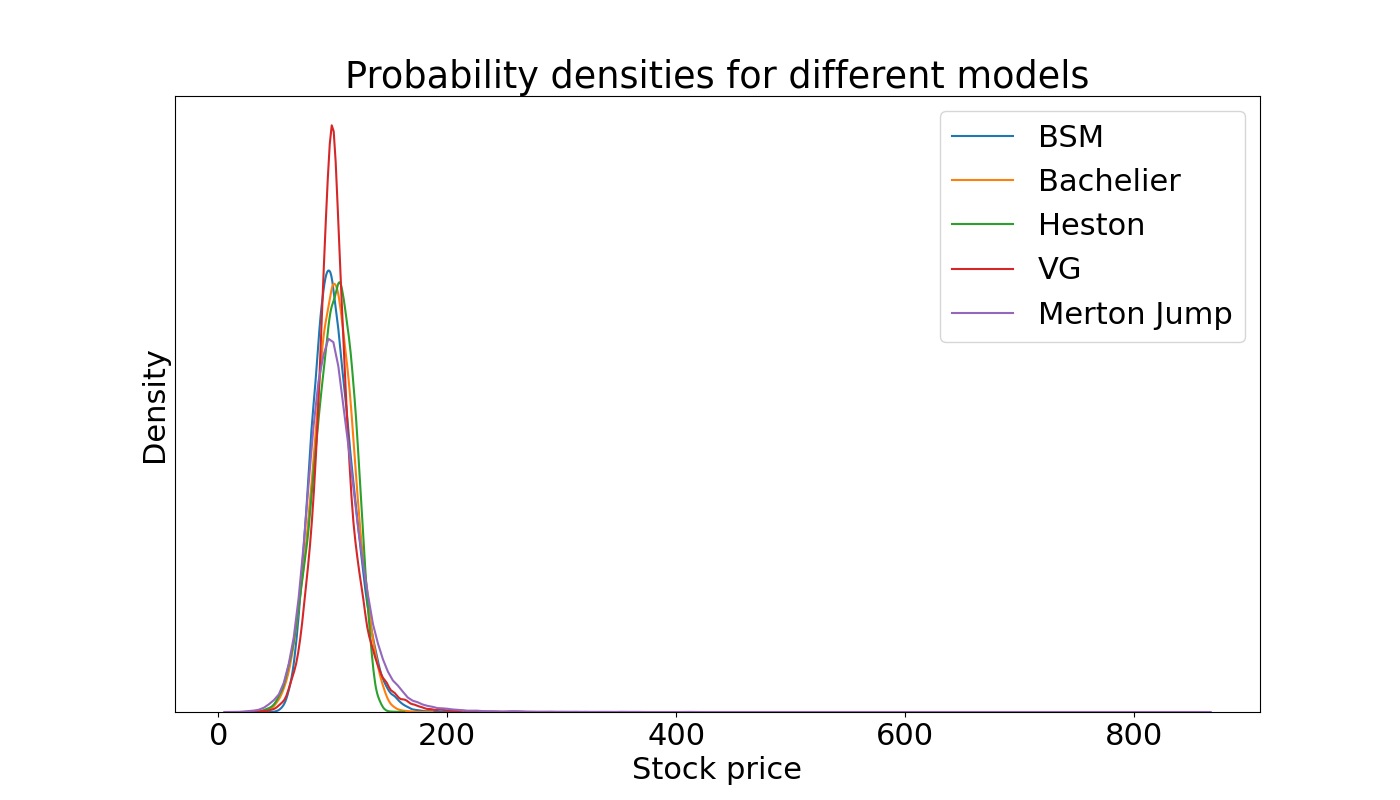
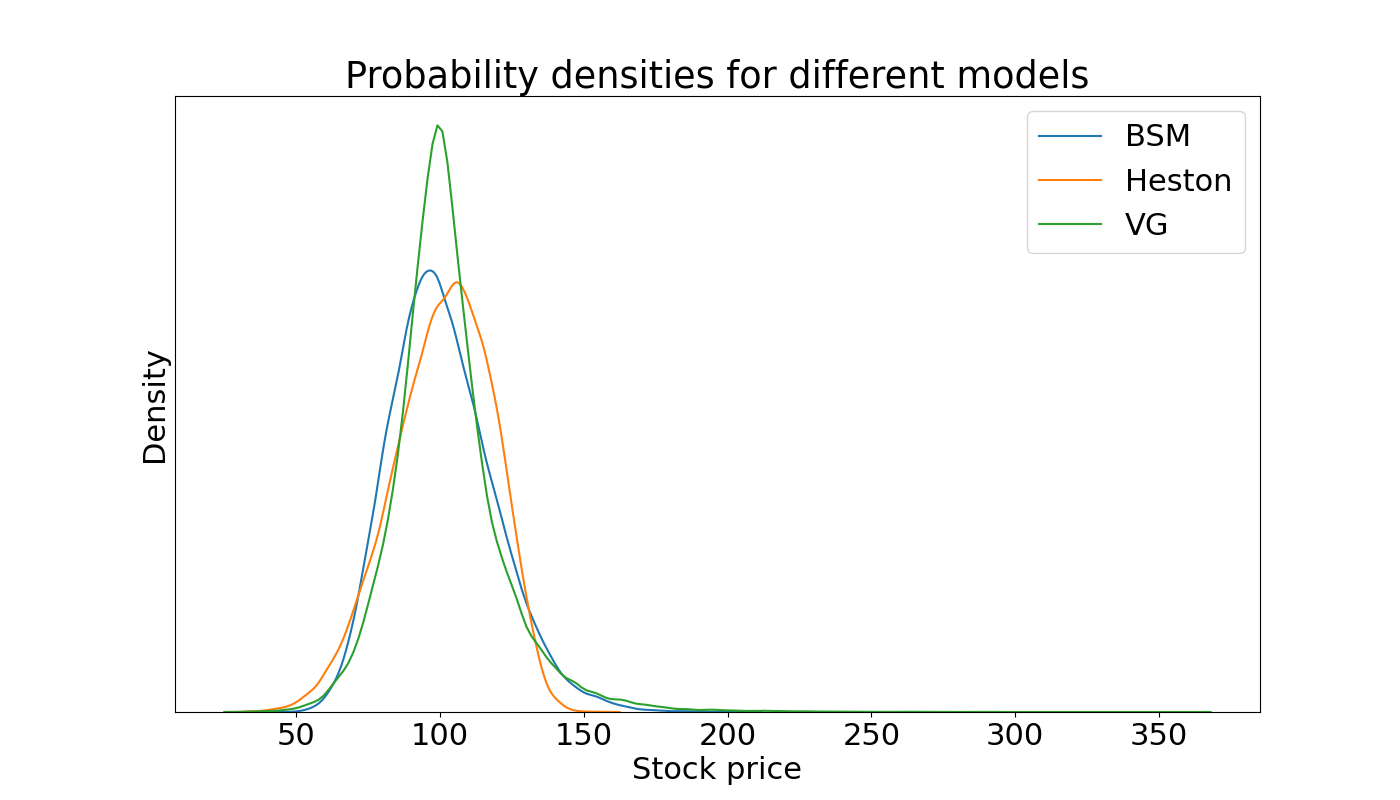
recreated MC plot

diff --git a/plotting.py b/plotting.py
@@ -52,7 +52,7 @@ def plotHistogramCSV(filenames):
     distData = [genfromtxt(filename, delimiter=',') for filename in filenames]
     n_bins = 50
 
-    labels = ["BSM", "Bachelier", "Heston", "VG", "Merton Jump"]
+    labels = ["BSM", "Heston", "VG"]
 
     # We can set the number of bins with the *bins* keyword argument.
     fig = plt.figure(figsize=(14,8))
@@ -141,9 +141,9 @@ def plotOptionCSV(filenames):
 
 if __name__ == "__main__":
     # plotLossCSV(["Data/BSMlossCurve"])
-    # plotHistogramCSV(["Data/mcSamplesBSM.csv","Data/mcSamplesBachelier.csv","Data/mcSamplesHeston.csv","Data/mcSamplesVarianceGamma.csv",\
-    #                  "Data/mcSamplesMertonJump.csv"])
-    plotStockCSV(["Data/MJstockPath1.csv","Data/MJstockPath2.csv","Data/MJstockPath3.csv"])
+    plotHistogramCSV(["Data/mcSamplesBSM.csv","Data/mcSamplesHeston.csv","Data/mcSamplesVarianceGamma.csv",\
+                      ])
+    # plotStockCSV(["Data/MJstockPath1.csv","Data/MJstockPath2.csv","Data/MJstockPath3.csv"])
     # plotStockCSV(["Data/VGstockPath1.csv","Data/VGstockPath2.csv","Data/VGstockPath3.csv"])
     # plotOptionCSV(["Data/callPrices.csv","Data/callDeltas.csv","Data/callGammas.csv"])
     # plotSurface("Data/ArtificialPriceSurface.csv","priceSurfacePlot")
